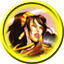
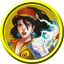
Fixed some heroes tokens, added Tatianna hero

diff --git a/Descent/scripts/constants.js b/Descent/scripts/constants.js
@@ -944,7 +944,8 @@ var HEROES_LIST = [
 	['Steelhorns',14,3,war],
 	['Vyrah The Falconer',10,4,rog],
 	['Lyssa',8,5,wiz],
-	['Zyla',8,5,wiz]
+	['Zyla',8,5,wiz],
+	['Tatianna',12,4,rog]
 ];
 
 var HEROES = {};
